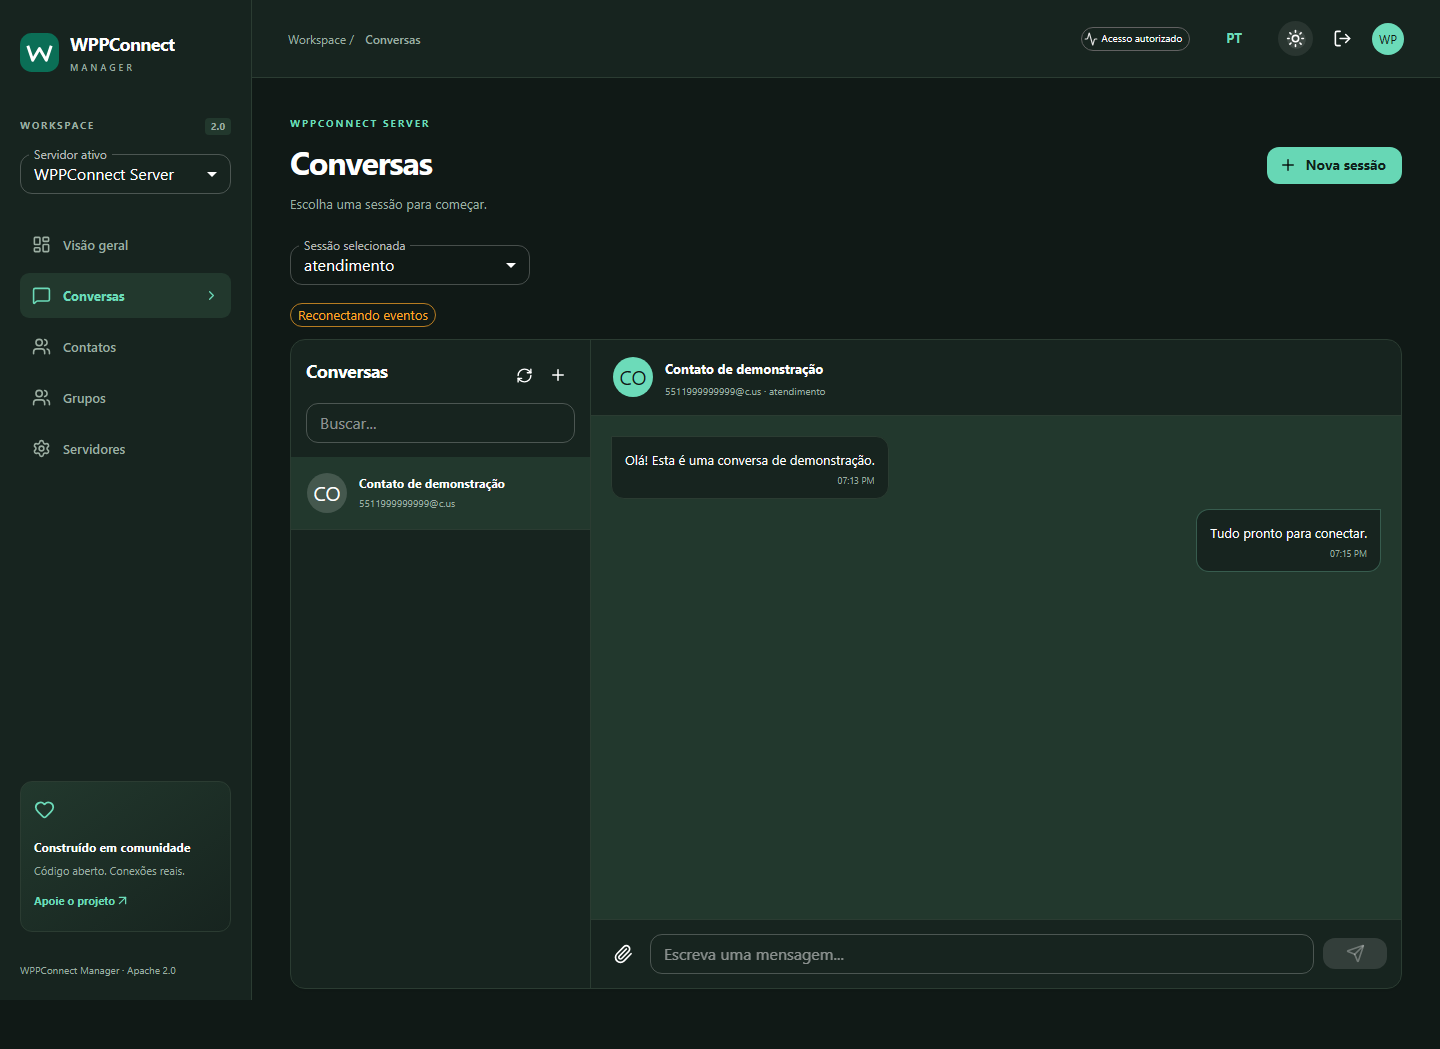
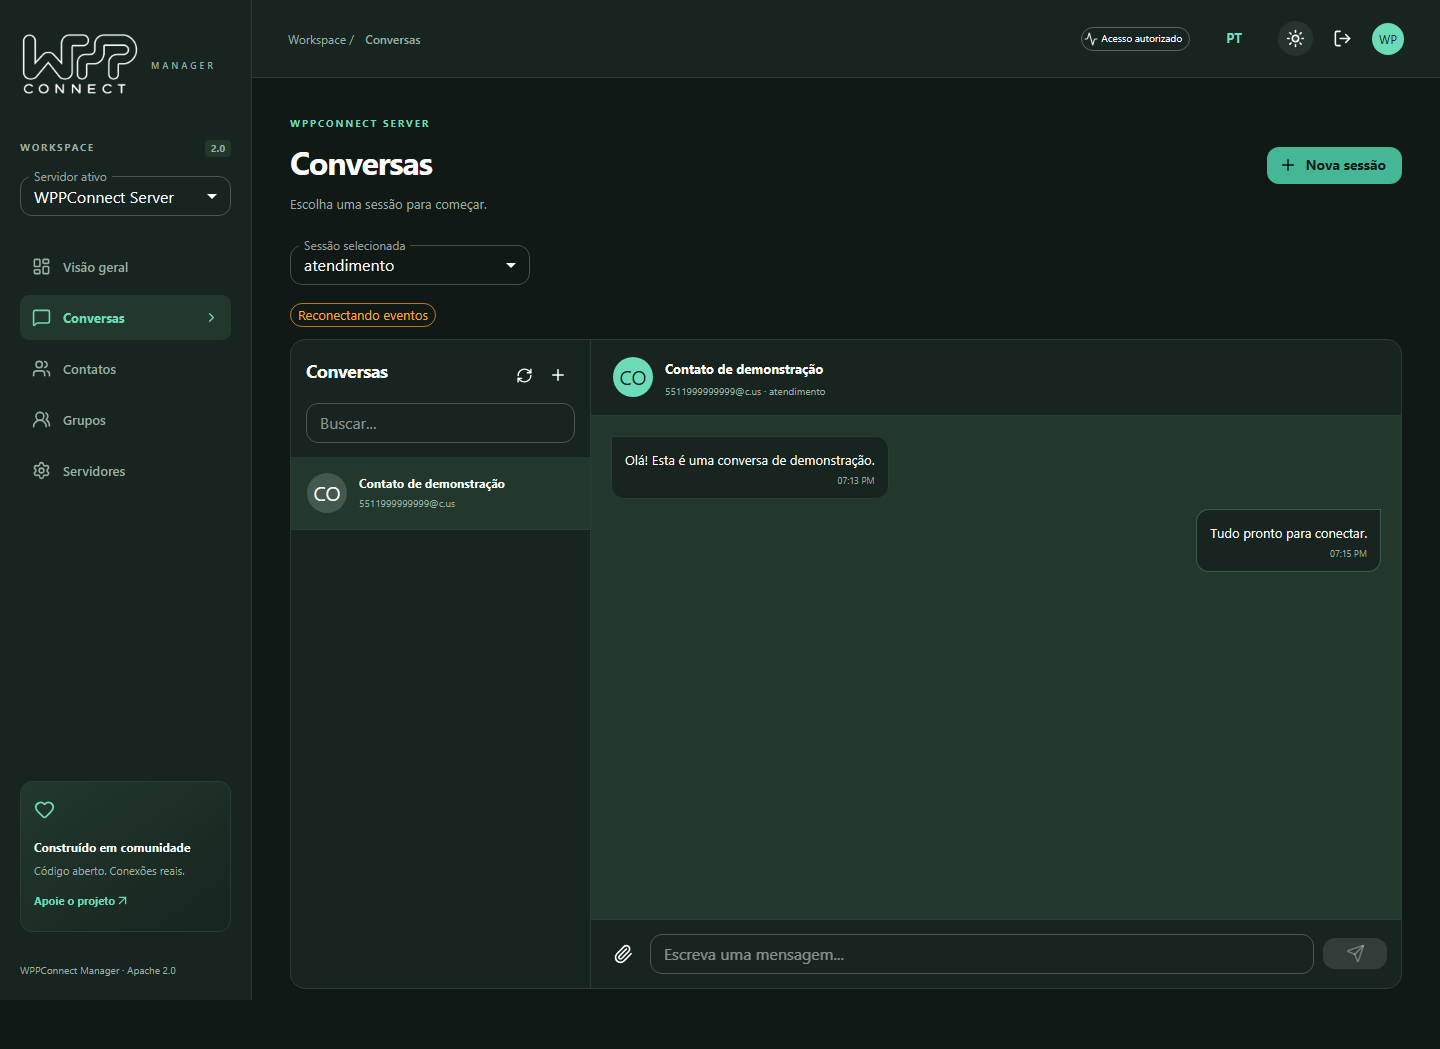
feat: apply official WPPConnect branding to Manager (#724)

Changed region(s): [[0.0, 0.0305, 0.125, 0.4576], [0.875, 0.122, 0.9688, 0.183], [0.25, 0.2135, 0.2812, 0.244]]

diff --git a/src/App.tsx b/src/App.tsx
@@ -174,9 +174,18 @@ export default function App() {
               setPage("sessions");
             }}
           >
-            <img src="/manager/favicon.svg" alt="" />
+            <img
+              src={
+                dark
+                  ? "/manager/brand/wppconnect-dark.png"
+                  : "/manager/brand/wppconnect-light.png"
+              }
+              alt="WPPConnect"
+              width="120"
+              height="66"
+            />
             <span>
-              WPPConnect<small>MANAGER</small>
+              <small>MANAGER</small>
             </span>
           </a>
           <div className="workspace-label">

diff --git a/index.html b/index.html
@@ -5,8 +5,10 @@
     <meta name="viewport" content="width=device-width,initial-scale=1" />
     <meta name="theme-color" content="#0b6e56" />
     <title>WPPConnect Manager</title>
-    <link rel="icon" href="/manager/favicon.svg" />
+    <link rel="icon" href="/brand/favicon.ico" />
     <script src="/manager/config.js"></script>
+    <link rel="manifest" href="/manifest.webmanifest" />
+    <link rel="apple-touch-icon" href="/brand/apple-touch-icon.png" />
   </head>
   <body>
     <div id="root"></div>

diff --git a/src/style.css b/src/style.css
@@ -86,8 +86,9 @@ a:focus-visible {
   margin-bottom: 43px;
 }
 .brand img {
-  width: 39px;
-  height: 39px;
+  width: 120px;
+  height: 66px;
+  object-fit: contain;
 }
 .brand small {
   display: block;

diff --git a/README.pt-BR.md b/README.pt-BR.md
@@ -1,3 +1,14 @@
+<!-- wppconnect-official-brand -->
+<p align="center">
+  <a href="https://wppconnect-team.github.io/">
+    <picture>
+      <source media="(prefers-color-scheme: dark)" srcset="https://wppconnect-team.github.io/brand/wppconnect-dark.png" />
+      <img src="https://wppconnect-team.github.io/brand/wppconnect-light.png" alt="WPPConnect" width="220" height="121" />
+    </picture>
+  </a>
+</p>
+<!-- /wppconnect-official-brand -->
+
 # WPPConnect Manager
 
 Painel de código aberto para **gerenciar sessões e conversar pelo WPPConnect Server**. Este é o antigo `wppconnect-frontend`, reativado e modernizado com React, TypeScript, Vite e Material UI.

diff --git a/README.md b/README.md
@@ -1,3 +1,14 @@
+<!-- wppconnect-official-brand -->
+<p align="center">
+  <a href="https://wppconnect-team.github.io/">
+    <picture>
+      <source media="(prefers-color-scheme: dark)" srcset="https://wppconnect-team.github.io/brand/wppconnect-dark.png" />
+      <img src="https://wppconnect-team.github.io/brand/wppconnect-light.png" alt="WPPConnect" width="220" height="121" />
+    </picture>
+  </a>
+</p>
+<!-- /wppconnect-official-brand -->
+
 # WPPConnect Manager
 
 [![Manager CI](https://github.com/wppconnect-team/wppconnect-manager/actions/workflows/ci.yml/badge.svg)](https://github.com/wppconnect-team/wppconnect-manager/actions/workflows/ci.yml)
